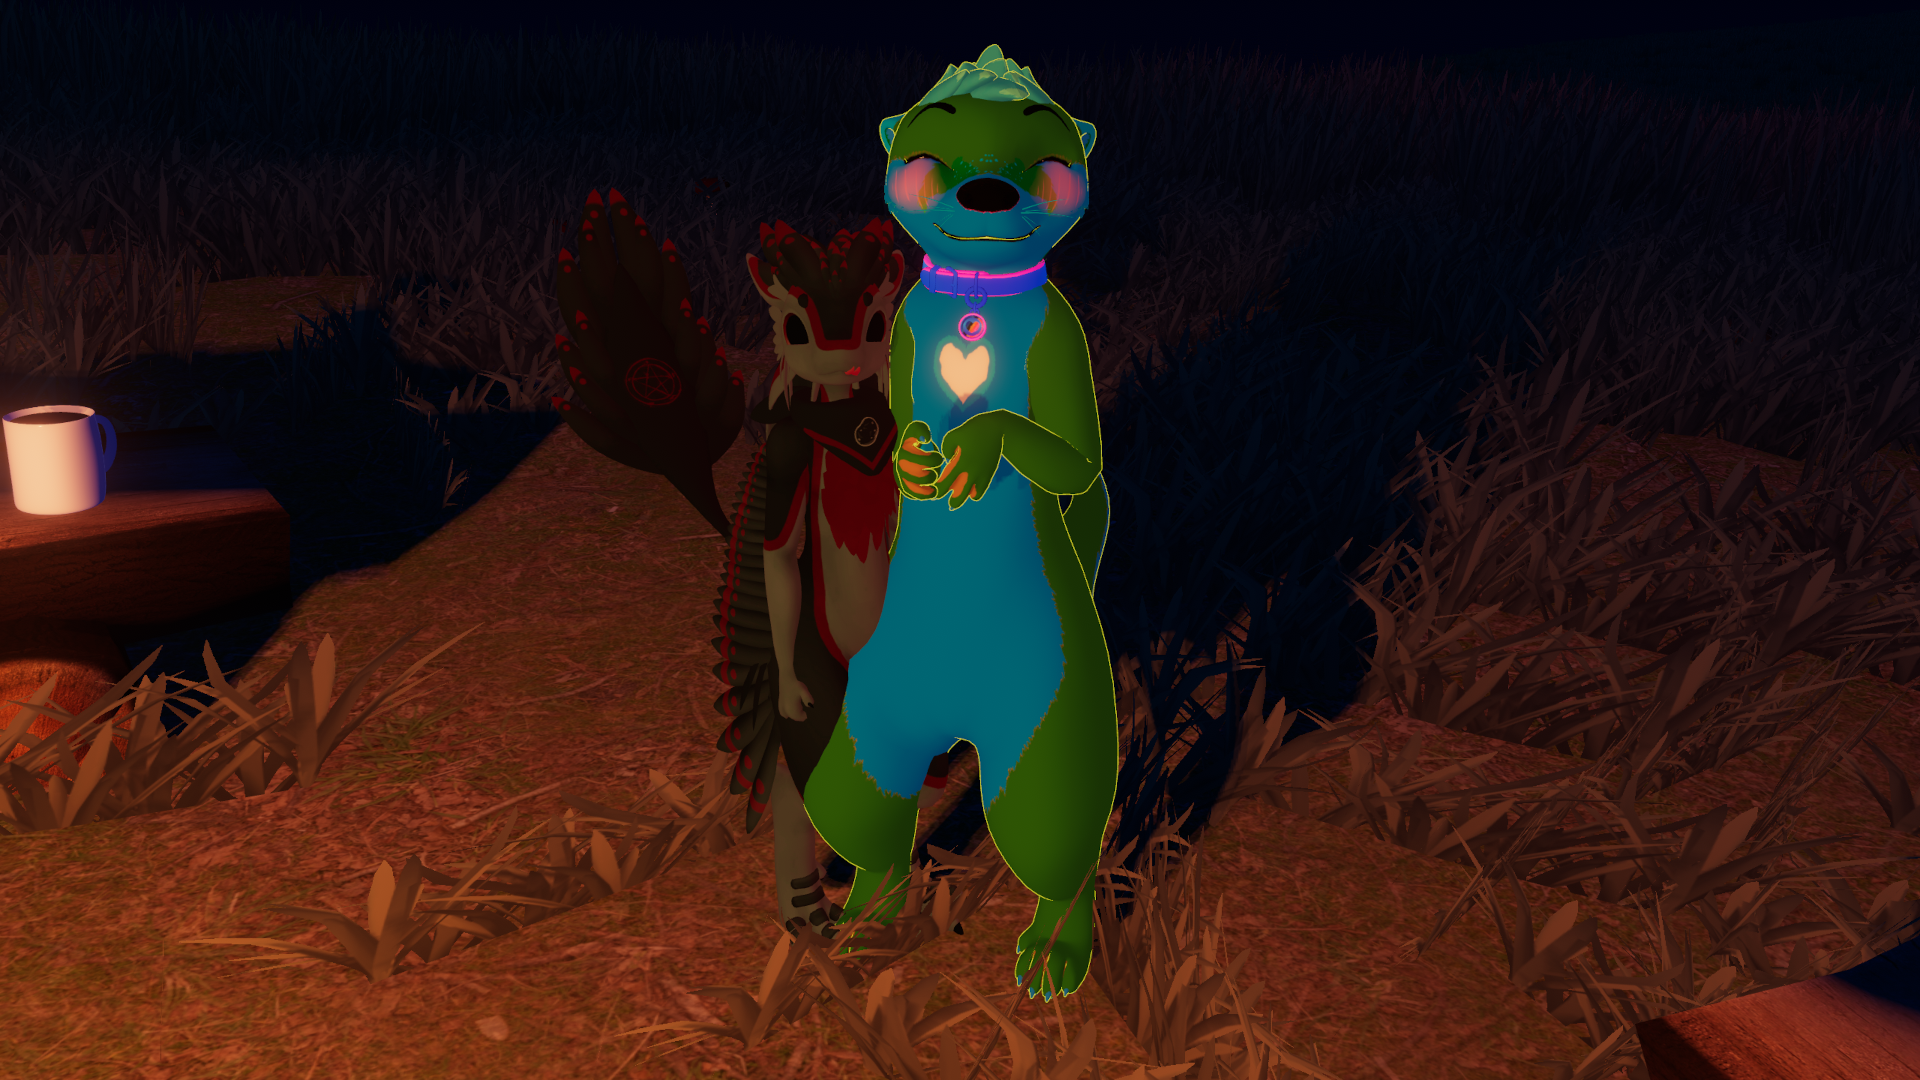
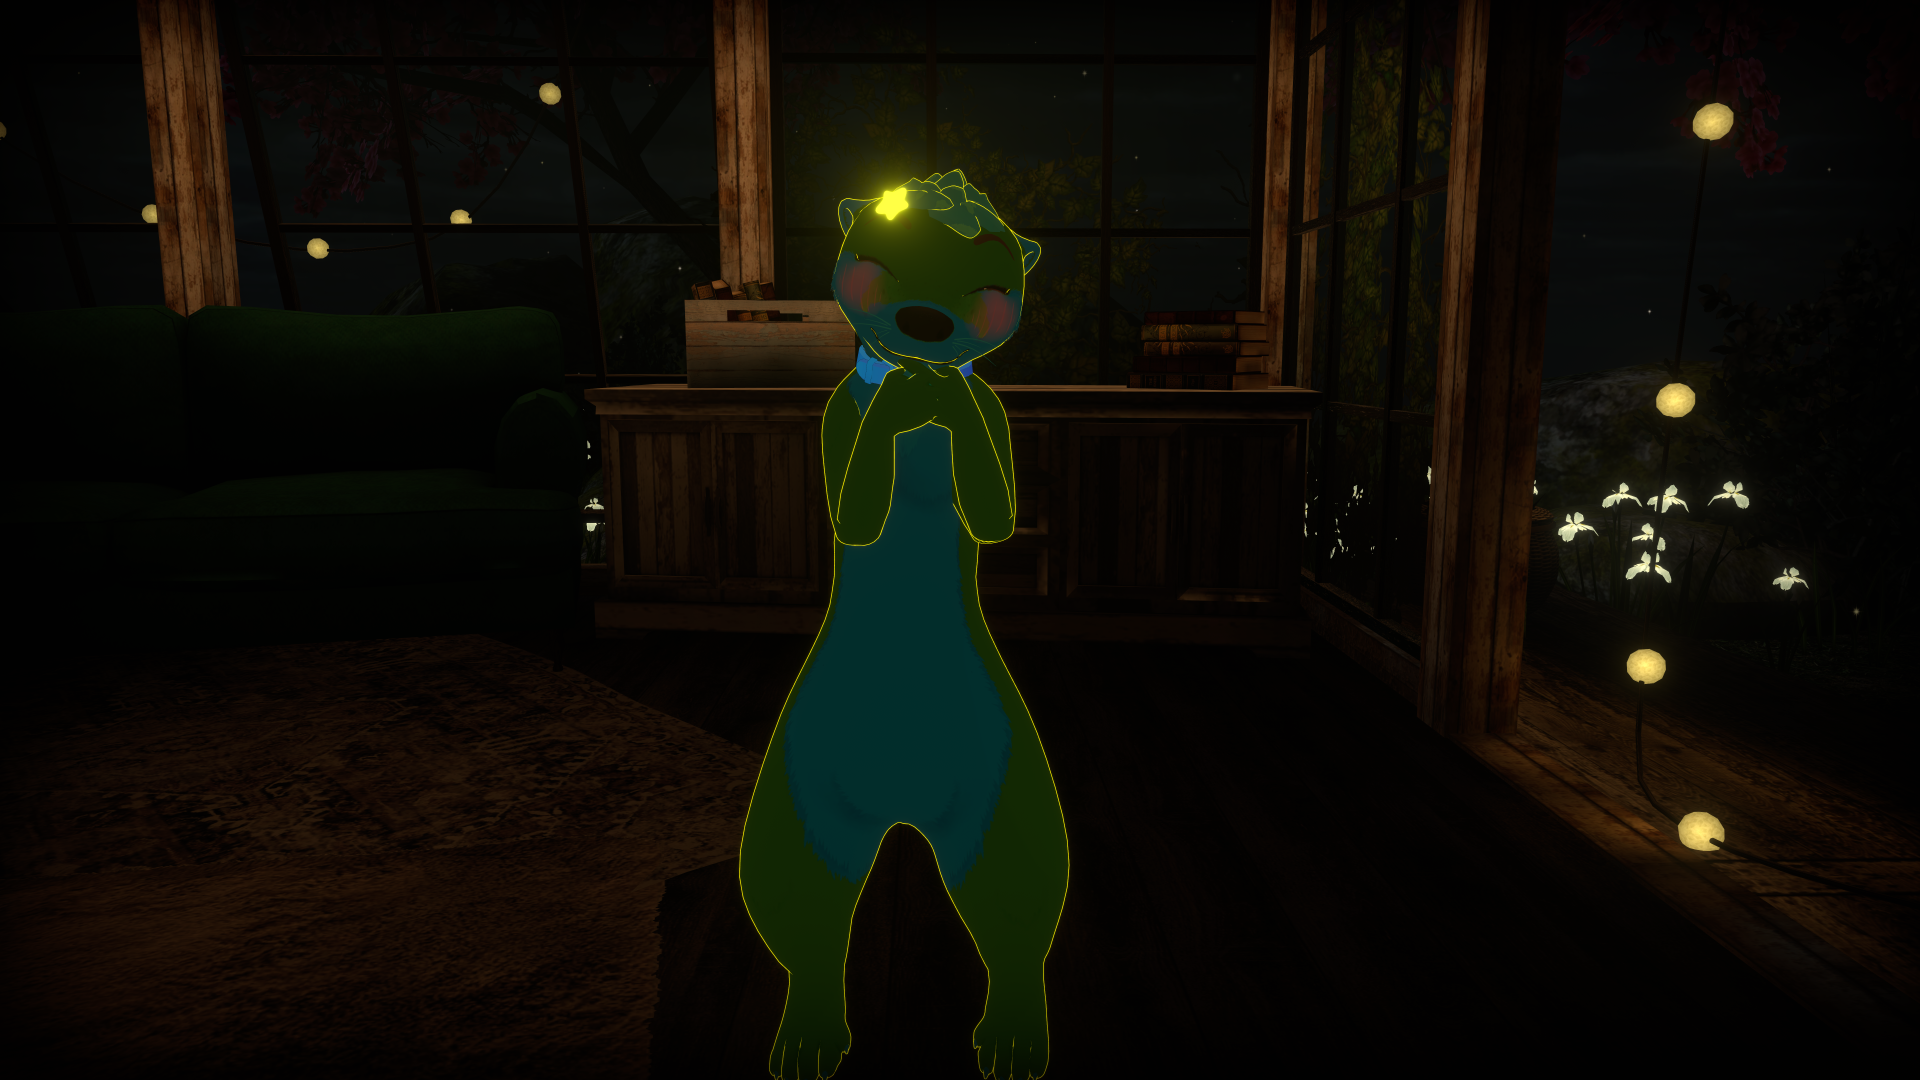
Updated background and made identity consistent

diff --git a/index.html b/index.html
@@ -6,20 +6,20 @@
 		<link rel="icon" type="image/png" href="images/favicon.png">
 		<meta name="viewport" content="width=device-width">
 		<meta name="generator" content="Astro v2.1.0">
-		<title>Kruemelchen owo</title>
+		<title>Aoki &lt;3</title>
 		
 	<link rel="stylesheet" href="style.css" /></head>
 	<body>
 		<div id="header">
 			<img src="images/otterlook.png" alt="Krüemmelchen" class="headerImage">
 			<div id="title">
-				<h1>Krümelchen is otter OwO</h1>
+				<h1>Aoki is otter OwO</h1>
 			</div>
 			<div class="headerImage"></div>
 		</div>
 		<div id="aboutme">
 			<h3>
-				Hello there, my name is Kruemmelbande, but you can call me Kai. <br>
+				Hello there, my name is Aoki.<br>
 				I'm a tech enthusiast with a passion for programming, <br>
 				primarily using Python but also dabbling in other languages like C.<br>
 				As someone on the autism spectrum, I can be a little shy sometimes,<br>
